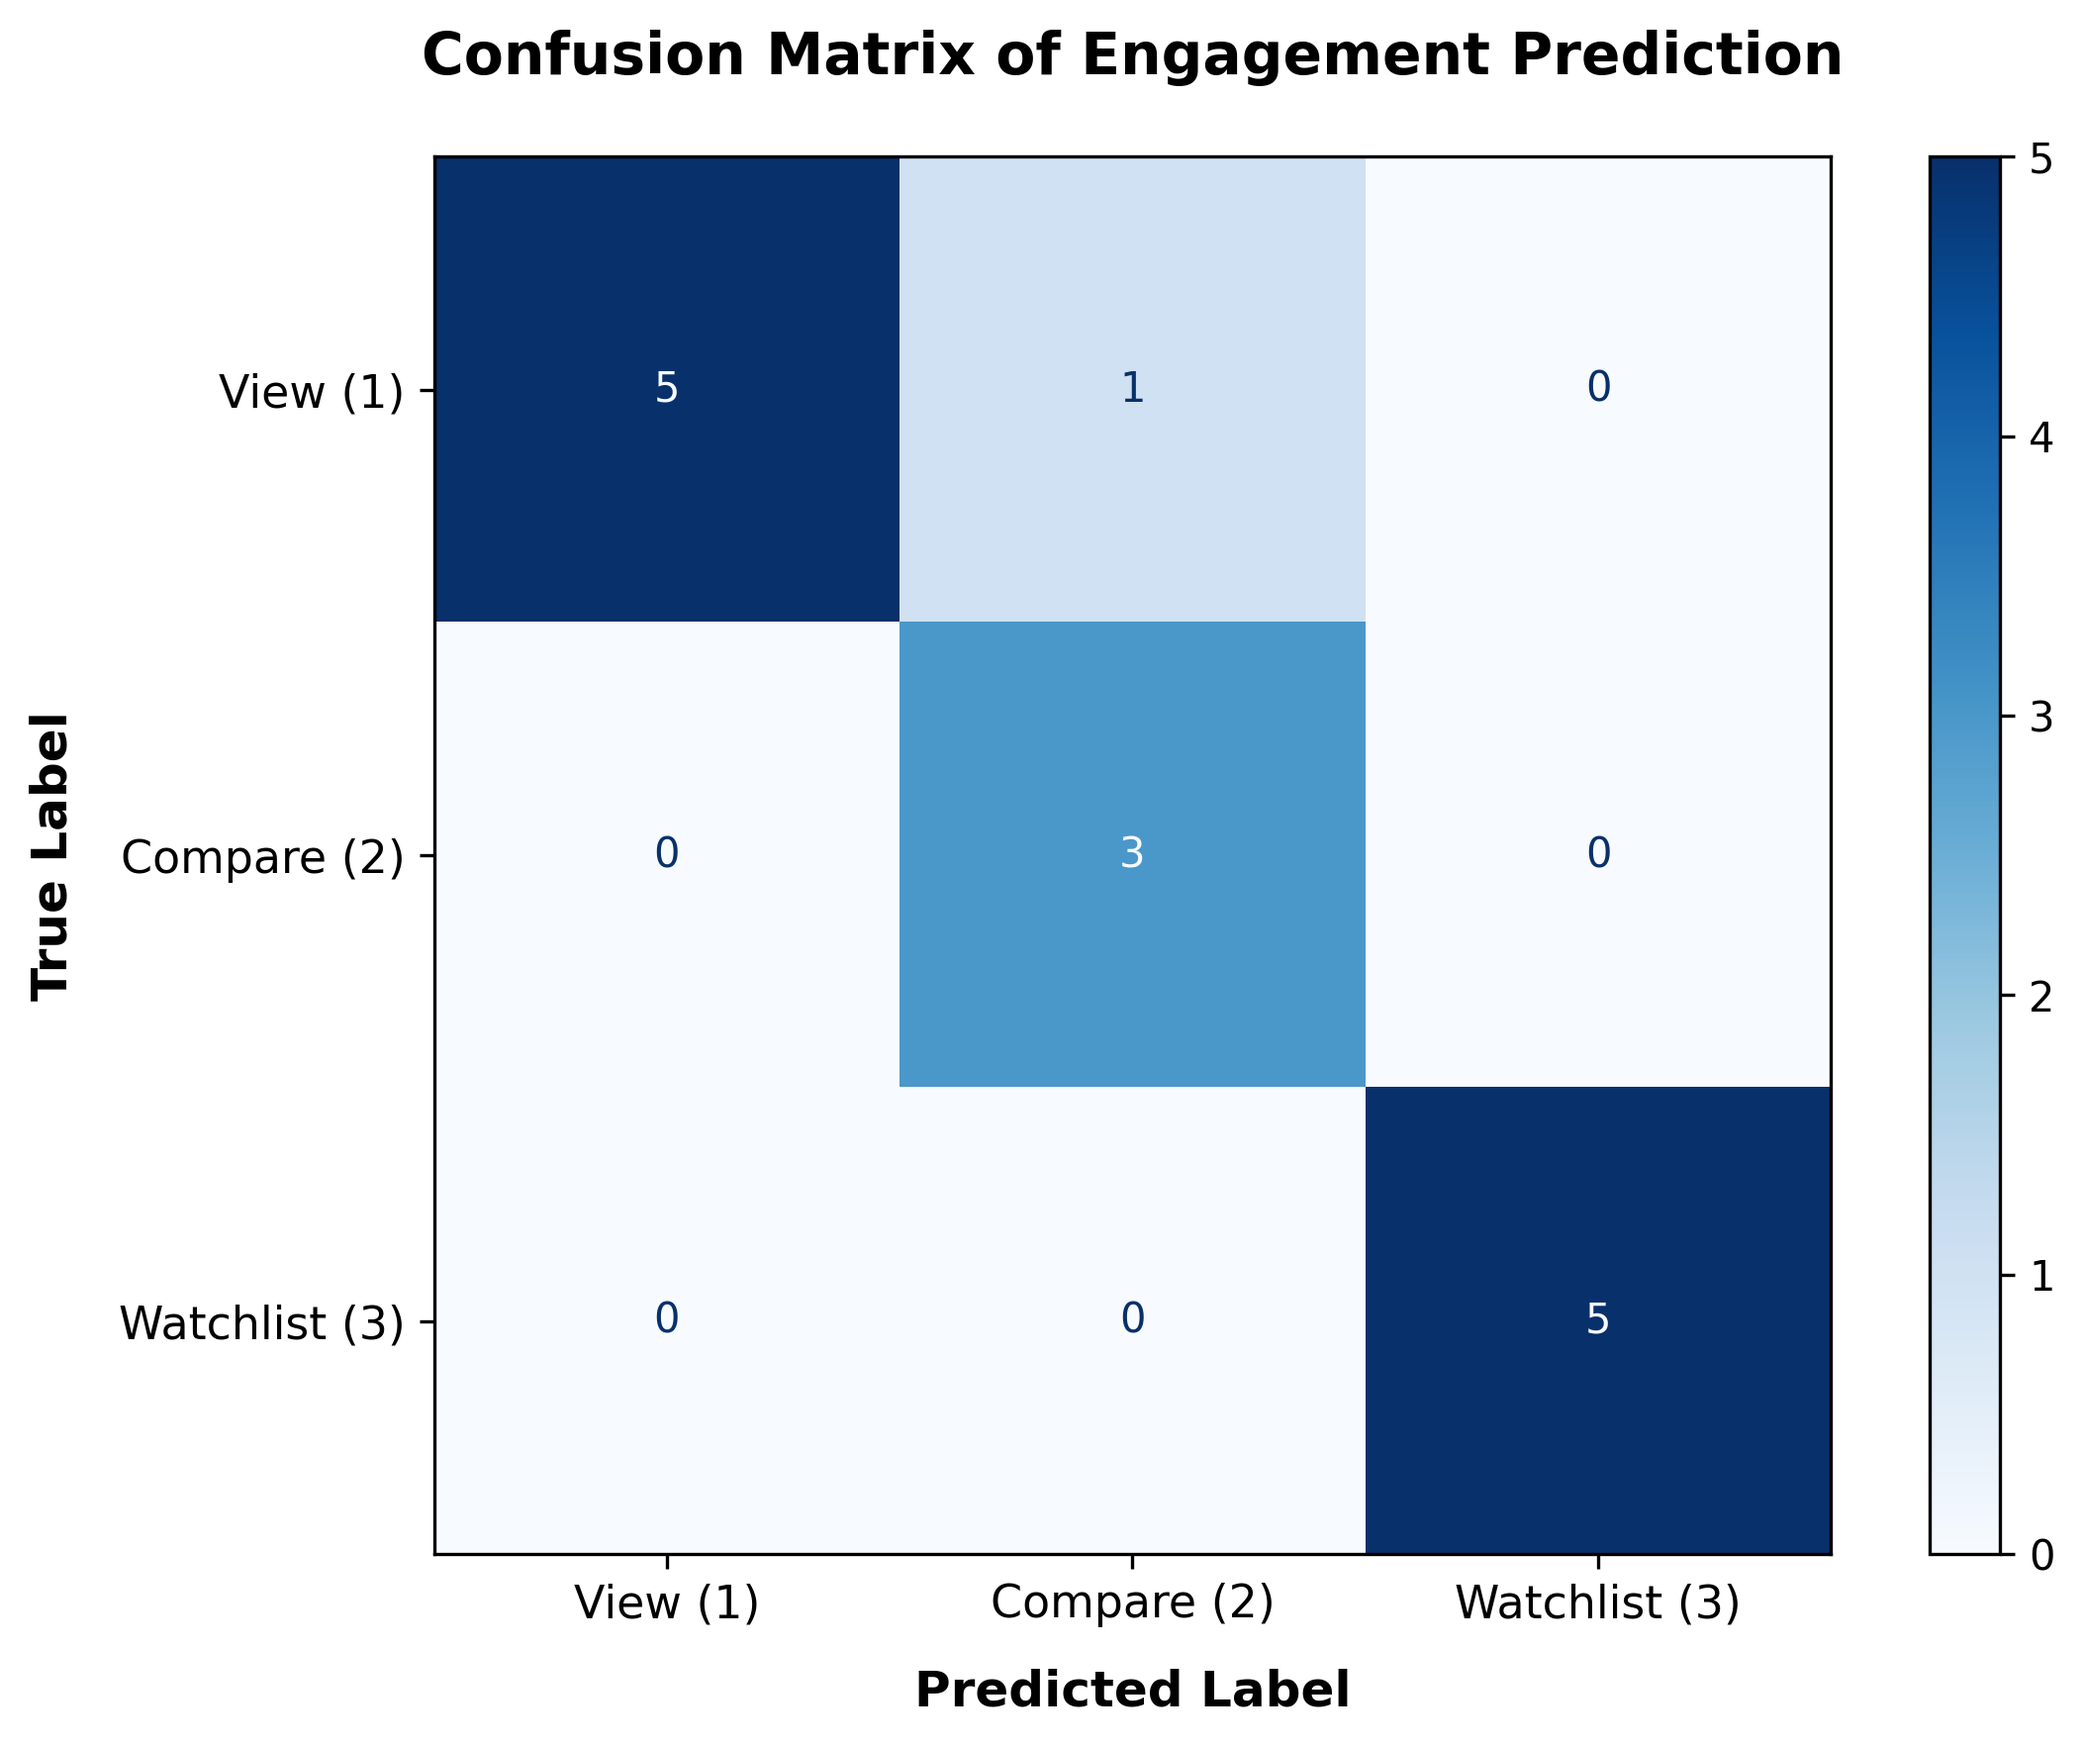
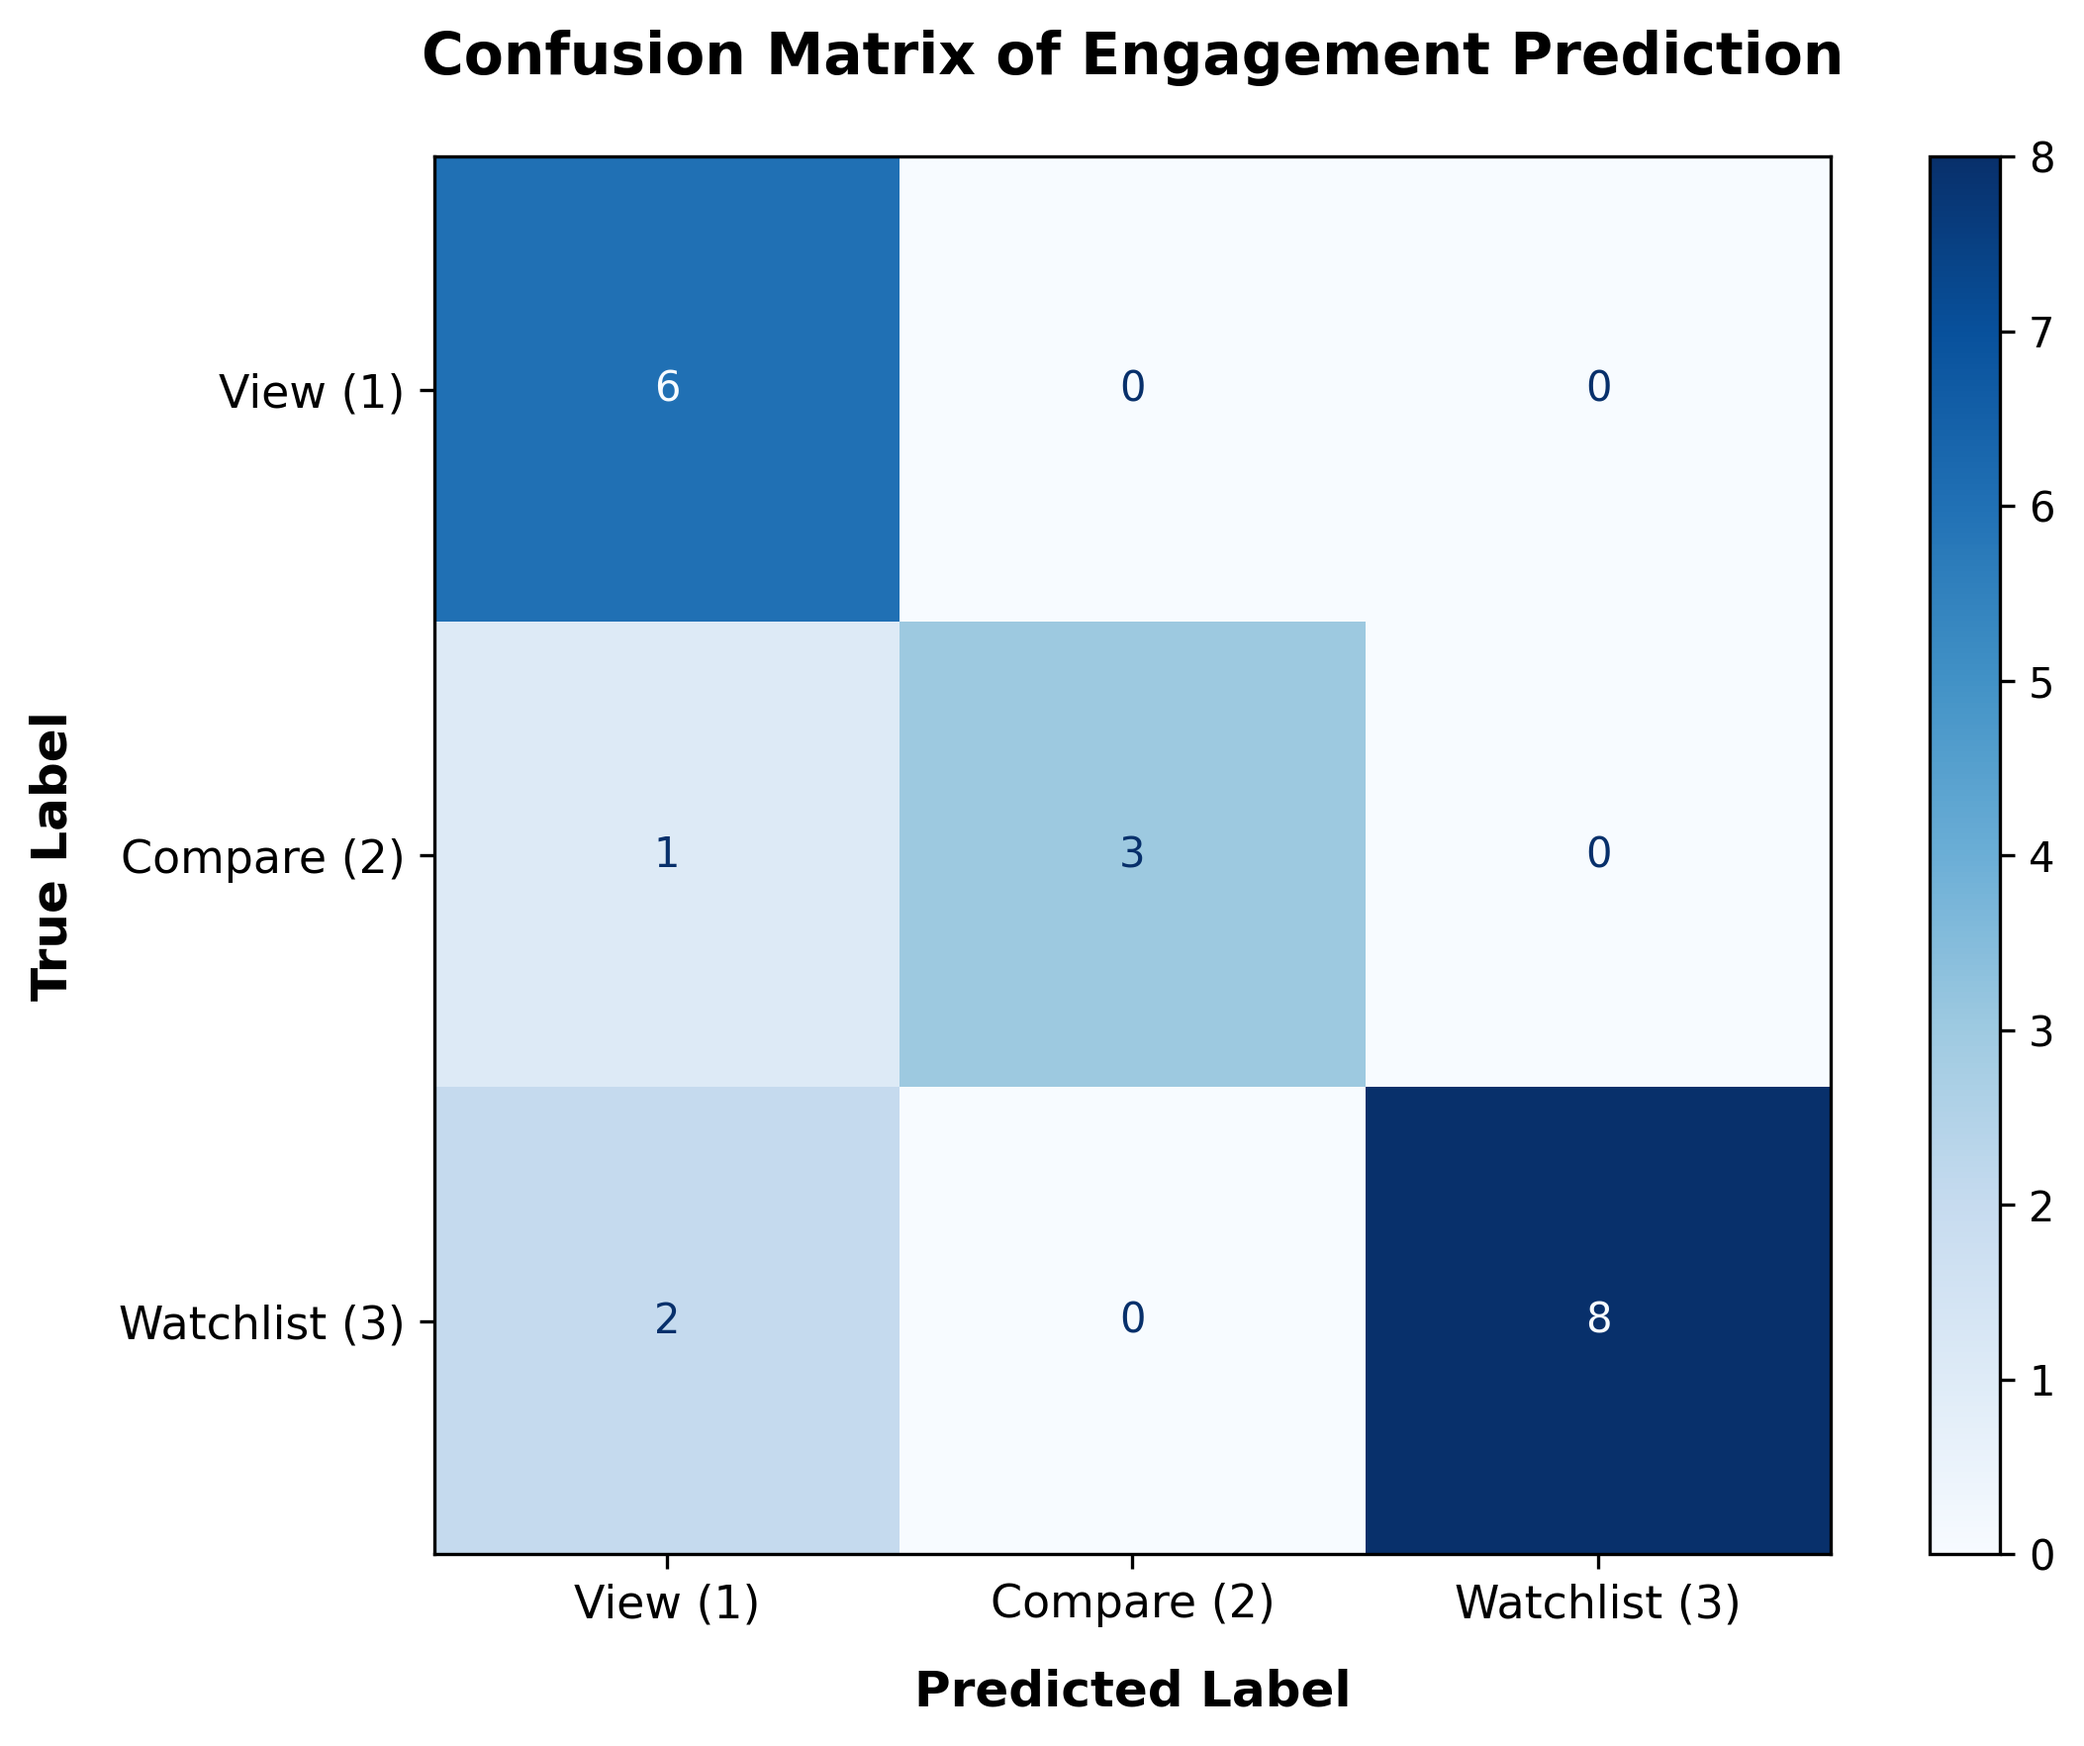
update after sp1

diff --git a/generate_sample_recommendations.py b/generate_sample_recommendations.py
@@ -1,0 +1,88 @@
+import os
+import numpy as np
+import pandas as pd
+import matplotlib.pyplot as plt
+
+from src.features.feature_engineer import FeatureEngineer
+from src.models.ai_recommender import AIRecommender
+
+# -------- CONFIG --------
+FE_PATH = "data/processed/feature_engineer.pkl"
+MODEL_PATH = "data/models/ai_hybrid_recommender_latest.pkl"
+OUTPUT_PNG = "sample_recommendations.png"
+N_RECOMMENDATIONS = 5
+# ------------------------
+
+def pick_good_user(fe: FeatureEngineer, min_interactions: int = 5):
+    """
+    Pick a user with enough interactions so recommendations are meaningful.
+    """
+    counts = fe.interactions_df["user_id"].value_counts()
+    good_users = counts[counts >= min_interactions].index.tolist()
+    if not good_users:
+        # fall back to the most active user
+        return counts.index[0]
+    return good_users[0]
+
+def main():
+    print("=" * 60)
+    print("Generating sample recommendation PNG")
+    print("=" * 60)
+
+    # 1. Load feature engineer and model
+    fe = FeatureEngineer.load(FE_PATH)
+    recommender = AIRecommender.load(MODEL_PATH)
+
+    # 2. Pick a user with rich history
+    user_id = pick_good_user(fe, min_interactions=20)
+    print(f"Using user_id = {user_id} for sample recommendations")
+
+    # 3. Get recommendations
+    rec_df = recommender.recommend(
+        user_id=user_id,
+        feature_engineer=fe,
+        n_recommendations=N_RECOMMENDATIONS,
+        exclude_viewed=True,
+    )
+
+    # 4. Join with startup info and select columns for display
+    rows = []
+    for _, row in rec_df.iterrows():
+        startup = fe.startup_features[fe.startup_features["id"] == row["startup_id"]].iloc[0]
+        rows.append({
+            "Rank": len(rows) + 1,
+            "Startup": startup["company_name"],
+            "Industry": startup.get("industry", ""),
+            "Revenue": f"{startup.get('revenue', 0):,.0f}",
+            "Revenue Growth %": f"{startup.get('revenue_growth', 0):.1%}",
+            "Expected Return %": f"{startup.get('expected_return', 0):.1f}",
+            "Conf. Score": f"{startup.get('confidence_score', 0):.2f}",
+            "Hybrid Score": f"{row['score']:.3f}",
+        })
+
+    table_df = pd.DataFrame(rows)
+
+    # 5. Plot as a table and save to PNG
+    fig, ax = plt.subplots(figsize=(12, 2 + 0.5 * len(table_df)))
+    ax.axis("off")
+
+    table = ax.table(
+        cellText=table_df.values,
+        colLabels=table_df.columns,
+        loc="center",
+        cellLoc="center",
+    )
+
+    table.auto_set_font_size(False)
+    table.set_fontsize(9)
+    table.scale(1, 1.5)
+
+    plt.title(f"Sample Recommendations for User {user_id}", fontsize=12, pad=10)
+    plt.tight_layout()
+    plt.savefig(OUTPUT_PNG, dpi=200)
+    plt.close(fig)
+
+    print(f"Saved sample recommendations to {OUTPUT_PNG}")
+
+if __name__ == "__main__":
+    main()

diff --git a/src/features/feature_engineer.py b/src/features/feature_engineer.py
@@ -301,7 +301,7 @@ if __name__ == "__main__":
     
     # Get training data
     X, y = fe.get_training_data()
-    print(f"\n📊 Training Data Shape:")
+    print(f"\nTraining Data Shape:")
     print(f"Features (X): {X.shape}")
     print(f"Labels (y): {y.shape}")
     print(f"Feature columns: {fe.feature_columns}")
